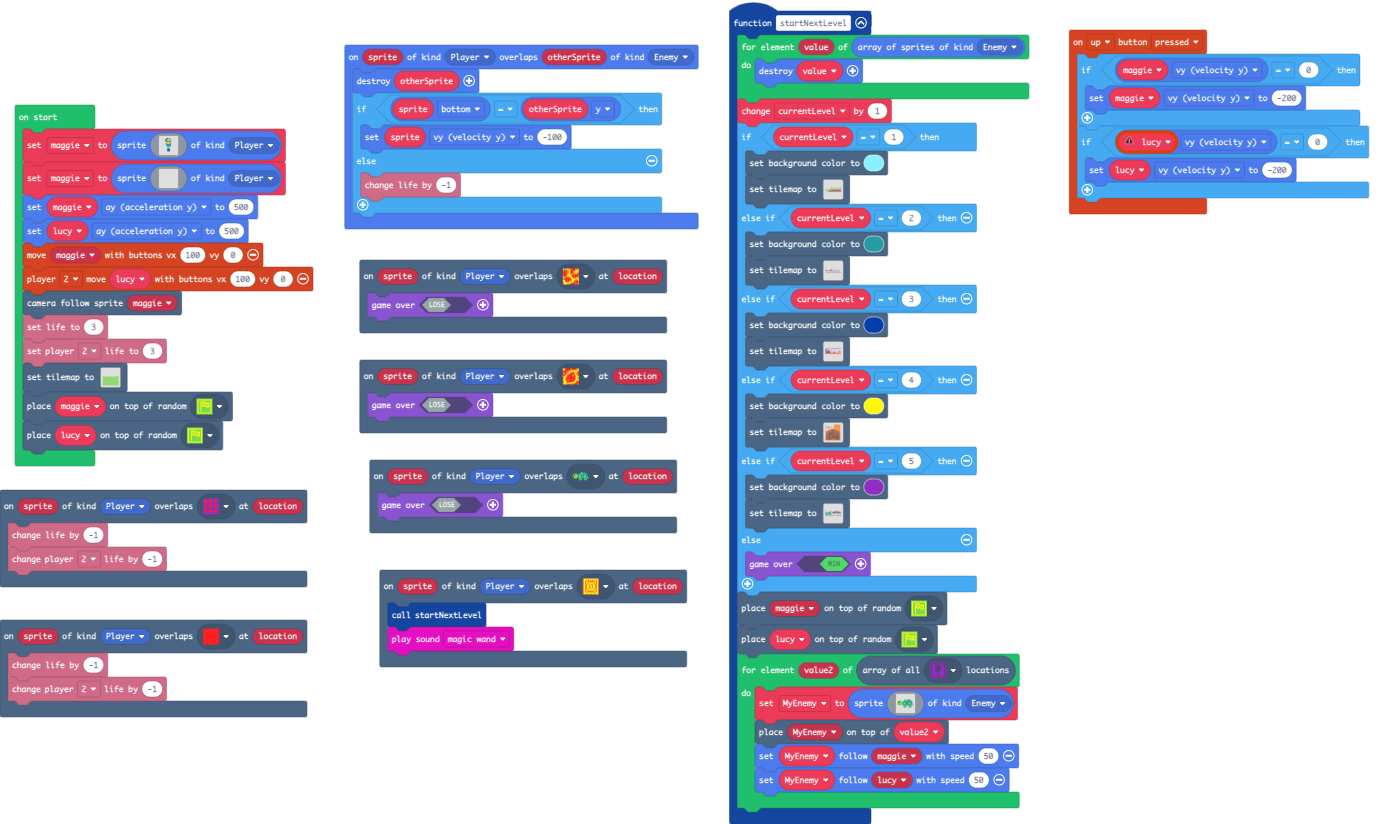
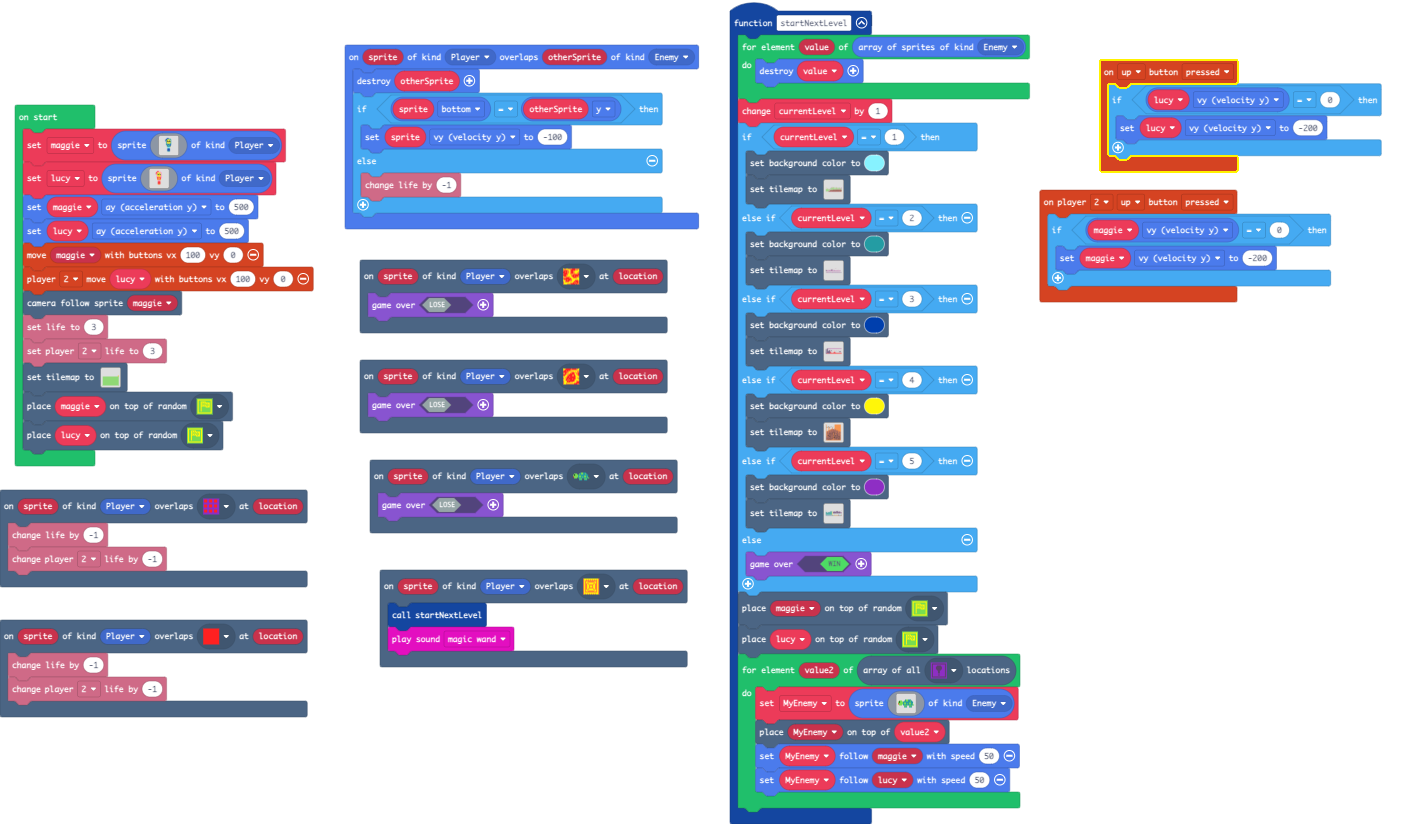
Update main.blocks, main.ts, tilemap.g.jres, tilemap.g.ts, images.g.jres, images.g.ts

diff --git a/tilemap.g.ts b/tilemap.g.ts
@@ -23,8 +23,6 @@ namespace myTiles {
     //% fixedInstance jres blockIdentity=images._tile
     export const tile12 = image.ofBuffer(hex``);
     //% fixedInstance jres blockIdentity=images._tile
-    export const tile14 = image.ofBuffer(hex``);
-    //% fixedInstance jres blockIdentity=images._tile
     export const tile15 = image.ofBuffer(hex``);
     //% fixedInstance jres blockIdentity=images._tile
     export const tile16 = image.ofBuffer(hex``);
@@ -38,6 +36,8 @@ namespace myTiles {
     export const tile7 = image.ofBuffer(hex``);
     //% fixedInstance jres blockIdentity=images._tile
     export const tile11 = image.ofBuffer(hex``);
+    //% fixedInstance jres blockIdentity=images._tile
+    export const tile14 = image.ofBuffer(hex``);
     //% fixedInstance jres blockIdentity=images._tile
     export const tile13 = image.ofBuffer(hex``);
 
@@ -253,6 +253,25 @@ namespace myTiles {
 ............................2...2......22........2
 ........................2...2...2...2.222222222222
 `, [myTiles.transparency16,myTiles.tile1,myTiles.tile4,myTiles.tile5,myTiles.tile6,myTiles.tile10,sprites.castle.tileDarkGrass1,sprites.swamp.swampTile0,sprites.castle.tileDarkGrass2,myTiles.tile16,myTiles.tile17,myTiles.tile18,sprites.builtin.brick,sprites.dungeon.darkGroundNorthWest0,sprites.dungeon.darkGroundNorth,sprites.dungeon.darkGroundNorthEast0,sprites.dungeon.darkGroundCenter,sprites.dungeon.darkGroundWest,sprites.dungeon.darkGroundEast,sprites.dungeon.darkGroundSouth,sprites.dungeon.darkGroundSouthWest0,sprites.dungeon.darkGroundSouthEast0,sprites.builtin.forestTiles0,myTiles.tile19,sprites.dungeon.hazardLava1], TileScale.Sixteen);
+            case "level10":
+            case "level10":return tiles.createTilemap(hex`1000100000000000000000000000000000000000000000000000000000000000000000000000000000000000000000000000000000000000000000000000000000000000000000000000000000000000000000000000000000000000000000000000000000000000000000000000000000000000000000000000000000000000000000000000000000000000000000000000000000000000000000000000000000000000000000000000000000000000000000000000000000000000000000000000000000000000000000000000000000000000000000000000000000000000000000000000000000000000000000000000000000000000000000000000000000000000`, img`
+. . . . . . . . . . . . . . . . 
+. . . . . . . . . . . . . . . . 
+. . . . . . . . . . . . . . . . 
+. . . . . . . . . . . . . . . . 
+. . . . . . . . . . . . . . . . 
+. . . . . . . . . . . . . . . . 
+. . . . . . . . . . . . . . . . 
+. . . . . . . . . . . . . . . . 
+. . . . . . . . . . . . . . . . 
+. . . . . . . . . . . . . . . . 
+. . . . . . . . . . . . . . . . 
+. . . . . . . . . . . . . . . . 
+. . . . . . . . . . . . . . . . 
+. . . . . . . . . . . . . . . . 
+. . . . . . . . . . . . . . . . 
+. . . . . . . . . . . . . . . . 
+`, [myTiles.transparency16], TileScale.Sixteen);
         }
         return null;
     })
@@ -280,8 +299,6 @@ namespace myTiles {
             case "tile10":return tile10;
             case "myTile10":
             case "tile12":return tile12;
-            case "myTile12":
-            case "tile14":return tile14;
             case "black":
             case "tile15":return tile15;
             case "myTile13":
@@ -296,6 +313,8 @@ namespace myTiles {
             case "tile7":return tile7;
             case "lucy":
             case "tile11":return tile11;
+            case "myTile12":
+            case "tile14":return tile14;
             case "myTile11":
             case "tile13":return tile13;
         }

diff --git a/main.ts b/main.ts
@@ -6,9 +6,6 @@ scene.onOverlapTile(SpriteKind.Player, assets.tile`myTile1`, function (sprite, l
     info.player2.changeLifeBy(-1)
 })
 controller.up.onEvent(ControllerButtonEvent.Pressed, function () {
-    if (maggie.vy == 0) {
-        maggie.vy = -200
-    }
     if (lucy.vy == 0) {
         lucy.vy = -200
     }
@@ -52,6 +49,11 @@ function startNextLevel () {
         MyEnemy.follow(lucy, 50)
     }
 }
+controller.player2.onButtonEvent(ControllerButton.Up, ControllerButtonEvent.Pressed, function () {
+    if (maggie.vy == 0) {
+        maggie.vy = -200
+    }
+})
 scene.onOverlapTile(SpriteKind.Player, sprites.dungeon.hazardLava1, function (sprite, location) {
     game.over(false)
 })
@@ -75,7 +77,7 @@ let currentLevel = 0
 let lucy: Sprite = null
 let maggie: Sprite = null
 maggie = sprites.create(assets.image`maggie`, SpriteKind.Player)
-maggie = sprites.create(assets.tile`myTile11`, SpriteKind.Player)
+lucy = sprites.create(assets.image`lucy`, SpriteKind.Player)
 maggie.ay = 500
 lucy.ay = 500
 controller.moveSprite(maggie, 100, 0)

diff --git a/images.g.ts b/images.g.ts
@@ -31,6 +31,34 @@ namespace myImages {
 ..............
 ..............
 `;
+            case "2NEQJ9X!`T=q$Ak":
+            case "lucy":return img`
+..............
+....222.......
+...2233333....
+..223555533...
+..235555553...
+..235f15f13...
+...35ff5ff3...
+...35555553...
+...35535553...
+...33555533...
+...32422423...
+...32444423...
+....244442....
+....244442....
+....544445....
+.....3333.....
+.....3333.....
+.....2222.....
+.....2222.....
+.....2222.....
+.....2222.....
+.....4444.....
+..............
+..............
+..............
+`;
         }
         return null;
     })
